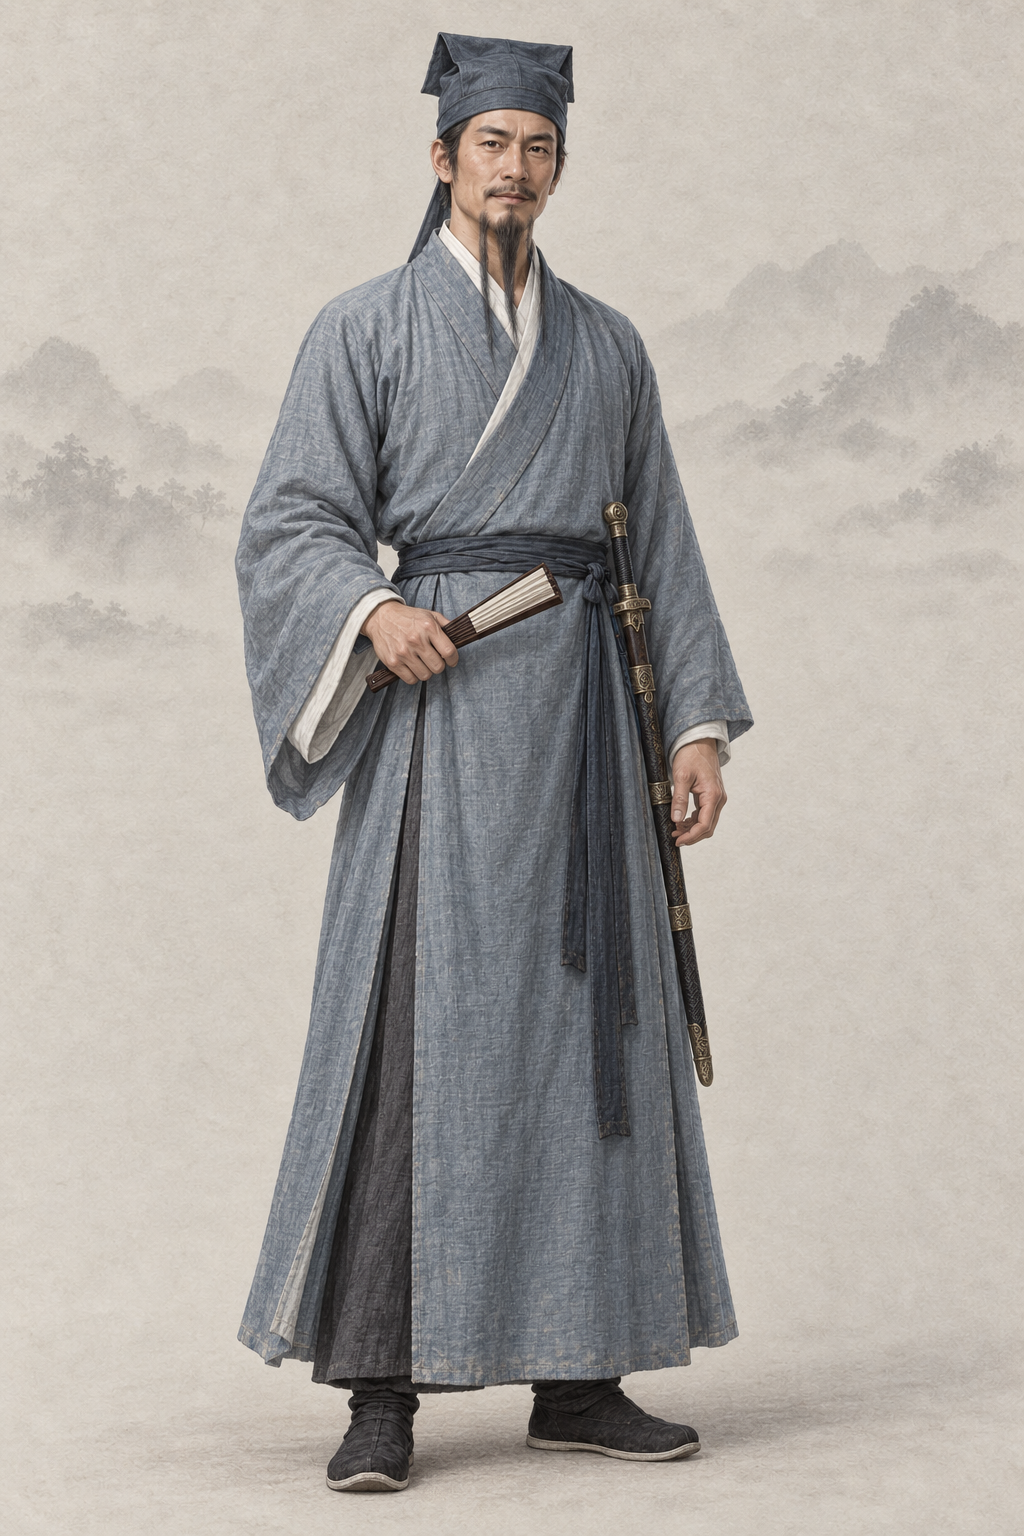
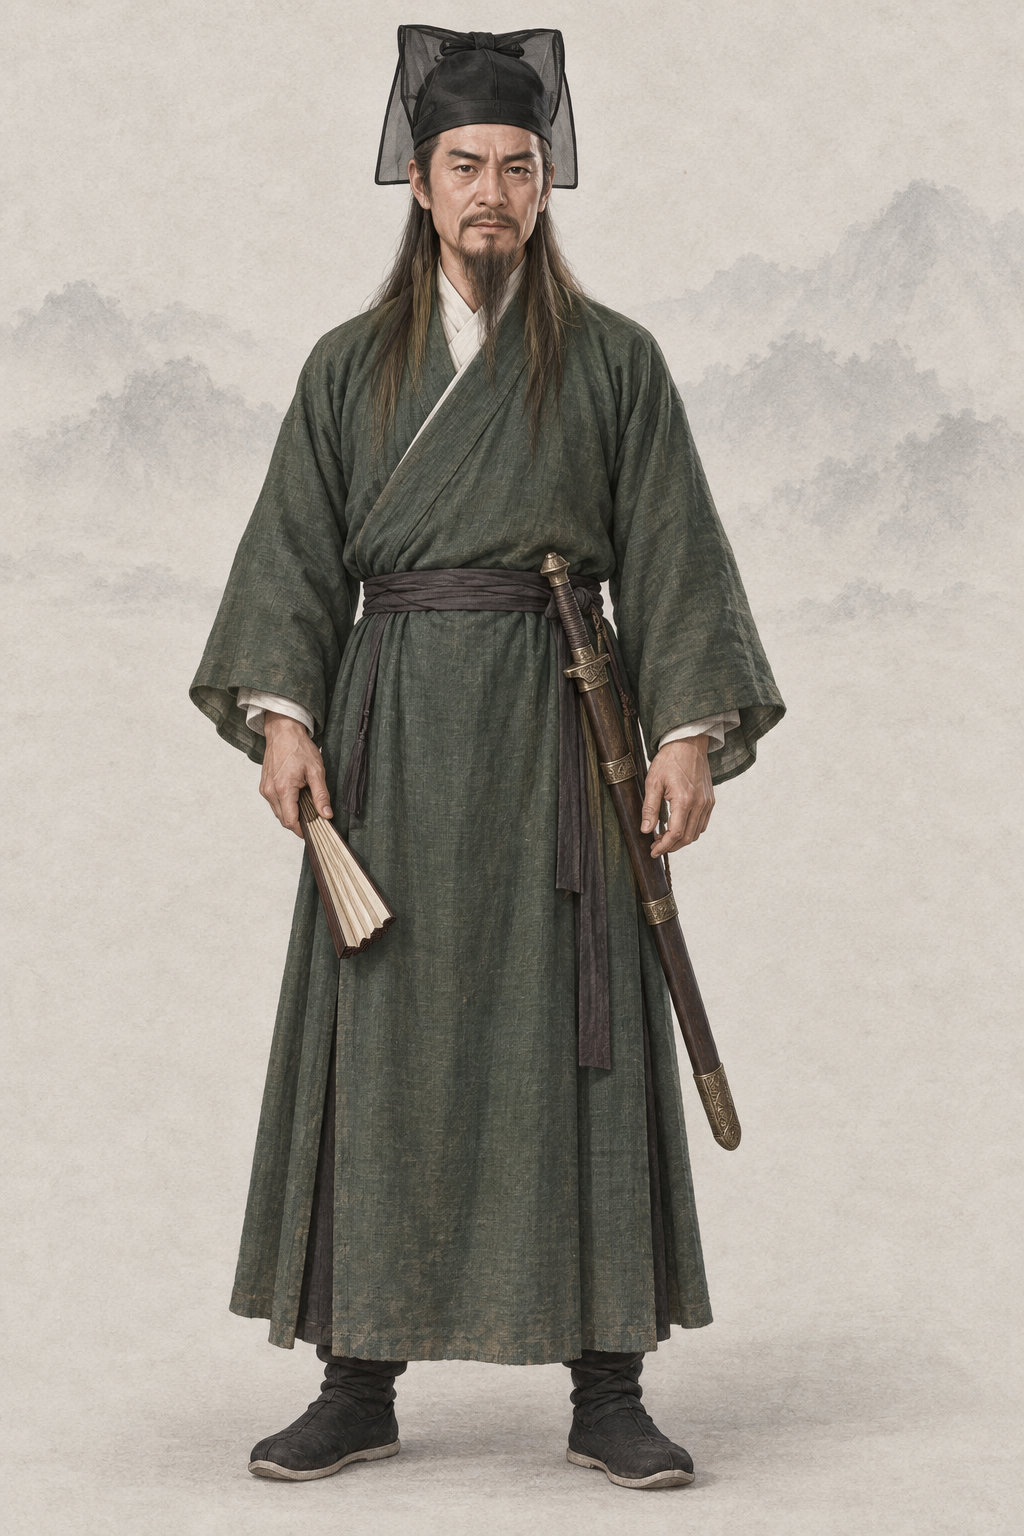
assets(character): por_npc_yuebuqun__ch05_prime_huashan_base 岳不群（codex · AR-32 1996 TVB《笑傲江湖》 剧照 + 基线）
参考 第 1–2 张为 1996 TVB《笑傲江湖》岳不群剧照（yuebuqun_1996_wangwei_sohu2.jpg、sohu1.jpg，均裁去白边、旁人与水印）与两张同性别基线重出；提示词写回、frontmatter 加 classic_ref。

diff --git a/assets/default/prompts/characters/ch05-xiaoao/npc_yuebuqun.md b/assets/default/prompts/characters/ch05-xiaoao/npc_yuebuqun.md
@@ -17,15 +17,56 @@ references:
   use: 已实际view，只取暖浅灰不透明纸底、极淡低对比水墨远山和留白；忽略女性人物、头倾、体型、五官、白青衣饰、亭阁和花枝。背景纸纹墨迹不得侵入目标人物皮肤、头发、衣料或器物。
 status: redo
 redo_reason: "现图短八字胡加尖山羊胡、手捋胡须，奸相外露；原著前期“君子剑”外表应是温文儒雅、一派正气，城府只藏在眼神里。"
-reference_upload:
-- assets/default/baseline/character/male/ref_npc_linghuchong__ch05_base01.png
 realism_revision: user_identity_pose_20261001
 codex_prompt_rev: 2026-10-02
+reference_upload:
+- .agents/coord/imagegen-reference/identity-20261002/xiaoao/yuebuqun_1996_wangwei_sohu2.jpg
+- .agents/coord/imagegen-reference/identity-20261002/xiaoao/yuebuqun_1996_wangwei_sohu1.jpg
+- assets/default/baseline/character/male/ref_npc_linghuchong__ch05_base01.png
+- assets/default/baseline/character/male/ref_npc_xiaofeng__ch01_base01.png
+classic_ref:
+  version: 1996 TVB《笑傲江湖》
+  stills:
+  - .agents/coord/imagegen-reference/identity-20261002/xiaoao/yuebuqun_1996_wangwei_sohu2.jpg
+  - .agents/coord/imagegen-reference/identity-20261002/xiaoao/yuebuqun_1996_wangwei_sohu1.jpg
+  crop:
+    yuebuqun_1996_wangwei_sohu2.jpg:
+    - 25
+    - 20
+    - 520
+    - 390
+    yuebuqun_1996_wangwei_sohu1.jpg:
+    - 40
+    - 20
+    - 400
+    - 470
 ---
 
 # 岳不群 · 人物写实修正
 
 ## Gemini 提示词
+
+> 2026-10-02 AR-32 重出（8 号出图员，codex exec · image_gen）：主要角色参考经典造型加项目基线生成。上传顺序：第 1–2 张为 1996 TVB《笑傲江湖》岳不群剧照（yuebuqun_1996_wangwei_sohu2.jpg、sohu1.jpg，均裁去白边、旁人与水印），最后两张为同性别画风基线（缩小版 JPEG）。参考图只借造型、气质与面部特征，画面按项目画风重绘、不复制照片或像素图。上一版保留在下一节作历史。
+
+```text
+生成一张 2:3 竖幅全身人物立绘：单人、单一视角、完整全身——头顶、双手、双脚和手中器物的两端都在画面内，四周留出自然空白；人物站姿自然，身体基本朝向正面，头部端正（不歪头、不仰不俯），镜头平视。
+【参考图】第 1–2 张参考图是该角色经典影视造型的剧照：借鉴其发型、服饰、配色、标志道具、气质和面部特征，让人一眼认出是这个角色；但必须重新绘制成项目画风，不要照片质感，不要照搬剧照的构图、光影、背景和姿势，也不要做成照片修图。最后两张是本项目画风基线：画风、用色、光线、质感和暖浅灰纸底加淡水墨背景以它们为准。
+【剧照借鉴要点】取剧照里的黑纱方巾、墨绿长衫、唇上八字须配颏下黑须的胡式、清瘦端正的脸型和深沉的眼神；但神情要温文儒雅、一派正气，阴沉只藏在眼底。姿势和构图按下文的全身立绘来画，不照搬剧照。
+【画风】写实手绘古风人物插画，与本项目写实武侠角色立绘同一画风，像功力深厚的画师用细腻笔触画出的真实人物。手绘插画质感，不是 CG 渲染：不要过度光滑的皮肤、完美对称的五官、塑料高光、过度锐利的发丝；保留自然的笔触和细微不完美。皮肤有真实质感——细小毛孔、细纹、晒痕和自然的左右不对称，不磨皮、不油亮；头发是一缕缕自然的发丝和少量碎发；布料看得出经纬纹理、厚薄和自然垂坠的褶皱，带穿用过的轻微旧化，但完整不破烂；整体设色低饱和、沉稳；柔和的自然光从左上方照来，明暗过渡自然，不打舞台光、轮廓光或美颜柔光。不是照片，不是三维渲染，不是动漫或游戏 CG，也不是油画（没有厚涂笔触和画布纹理）。
+【背景】不透明的暖浅灰色纸底，只在远处有极淡的水墨远山和薄雾，大面积留白；人物与背景明暗分明、轮廓边缘干净完整（后续要自动抠图），水墨和纸纹只在背景里，不侵入人物和衣服；脚下只有很淡的一点接触阴影。
+【人物】岳不群，《笑傲江湖》中的华山派掌门，人称「君子剑」；尚未修习辟邪剑法、仍以谦谦君子面目示人的时期。
+【年龄与体态】约四十五到五十岁的中年男子，中等身材、匀称偏瘦，腰背挺直，举止从容有度。
+【经典造型】九十年代经典港剧里的「君子剑」：头戴黑纱方巾、一身墨绿长衫、唇上八字须配颏下黑须、手执折扇、长剑在腰；远看一派正气的儒雅掌门，阴沉只藏在眼底一丝。
+【面容】按剧照：清瘦端正的长方脸，颧骨略显；眉毛浓而平直；眼睛细长、目光深沉，表面温和谦逊，深处藏着一丝不易察觉的算计；鼻梁挺直；嘴唇偏薄，嘴角带谦和的微笑；唇上留修剪整齐的八字须，颏下一绺黑须垂到领口；额头和眼角有中年人的细纹。
+【发式】头戴一顶黑纱方巾（明代儒士的方顶软巾，后面垂着两条短带），鬓发整齐。
+【服饰】明代儒生式的墨绿色长衫（交领右衽，左襟压右襟），白色内领，深色腰带，黑布鞋；衣料细密整洁，毫无装饰。
+【道具】腰间左侧佩一柄长剑（朴素深色剑鞘、铜饰，剑不出鞘）；右手握一柄合拢的折扇，左手自然下垂。
+【姿态与神情】端正站立，温文尔雅。
+【不要】画面里不要任何文字、题款、印章、签名、水印、边框、分格或多视图；不要第二个人；不要幼态（童颜、娃娃脸、婴儿肥、儿童或少年身材、大头小身）；不要塑料感皮肤、磨皮美颜、网红脸（尖下巴大眼高鼻的模板脸）、过度对称、浓妆、偶像式打光、蜡像感；不要照片质感，不要像剧照照片、照片修图或拼贴，不要照搬剧照的背景、光影、构图和姿势；不要三维渲染或动漫大眼；不要歪头、斜镜头；不要多指、缺指（设定的伤残除外）、手与器物粘连或悬空；衣襟必须右衽（穿着者的左襟压在右襟上），不要左衽（设定为少数民族服制的除外），不要水平镜像；不要现代物品、发光特效、法阵或能量光。不要奸笑或阴险外露的神情；不要手捋胡须；不要锦衣华服；不要清代剃发留辫。
+【画风基线】随提示词上传的参考图里，最后两张是本项目的立绘画风基线：只参考它们的画风、用色、光线、质感和暖浅灰纸底加淡水墨的背景处理，整体画风必须与它们一致——精细写实的数字手绘插画，不是油画，不要厚涂笔触和画布纹理。基线图只取画风，不取长相：不要照搬基线图里人物的长相、年龄、发型、服饰和姿势。
+```
+
+## AR-31 文字版 Gemini 提示词（2026-10-02 凌晨；AR-32 重出之前，历史，不再用于出图）
 
 > 2026-10-02 Codex 人物线 2 号（AR-31）：在审核组稿上补一行「经典形象」（借鉴公认经典造型的发式、装束、配色、标志道具与气质，只写文字，不写演员名、不上传剧照），并补去 AI 化要求。本轮出图用下面第一个代码块；审核组原稿保留在其后的「审核组原稿」小节作历史。
 
